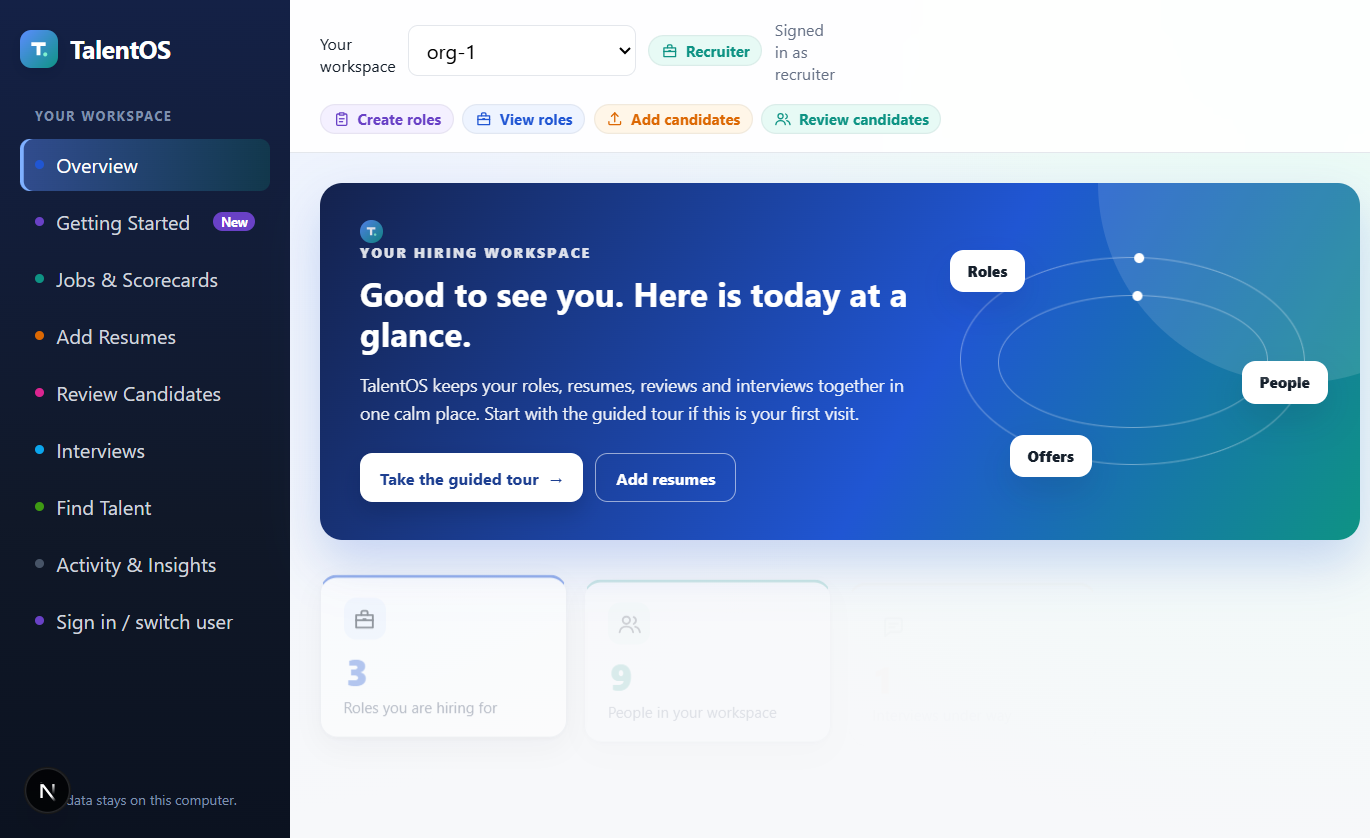
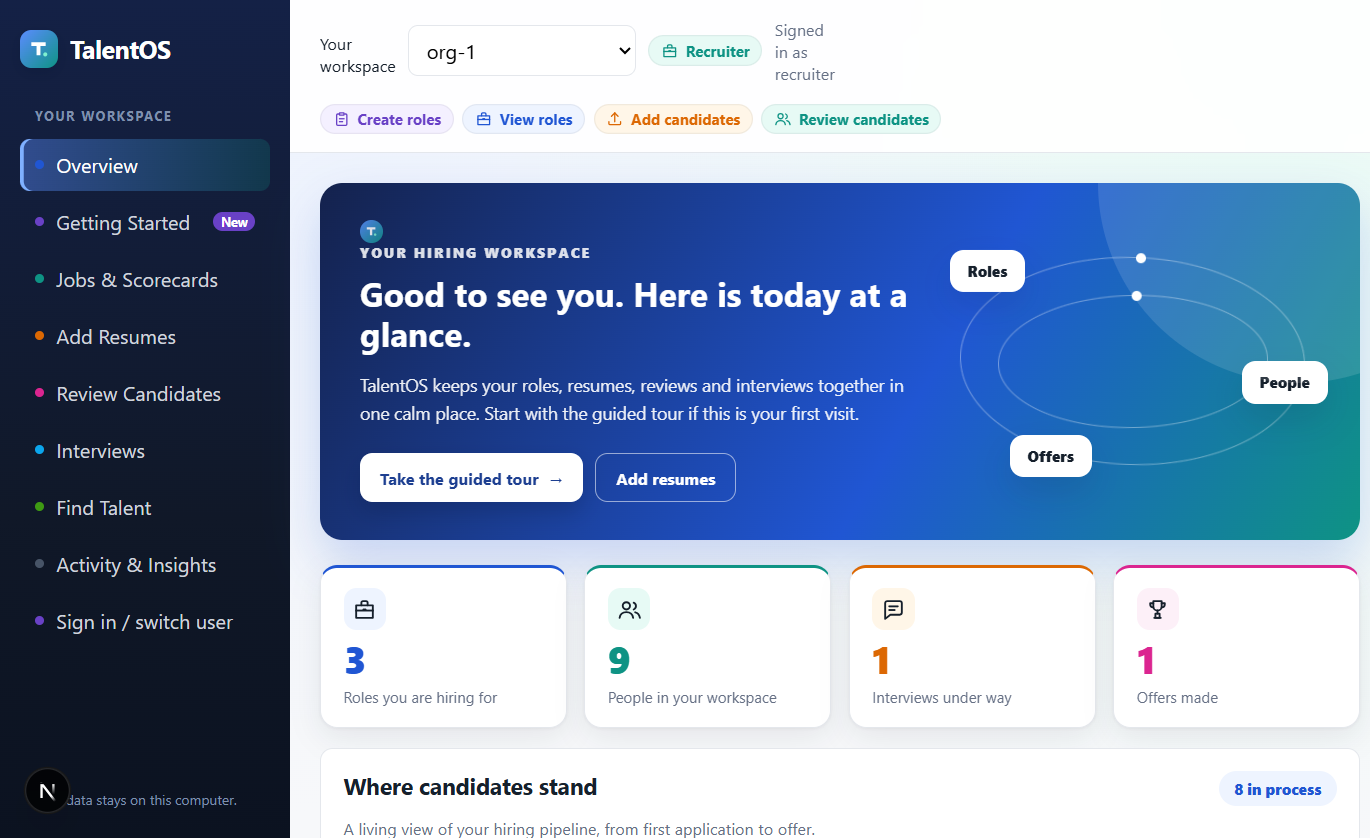
docs: settle screenshots after full data render
Added a 10-second post-load settle window before every screenshot so seeded data, cards and tables finish rendering. Updated the README caption and regenerated the Pillow collage from the new captures.

Verified with 98 passing pytest checks, clean TypeScript and zero browser console errors.

diff --git a/README.md b/README.md
@@ -22,7 +22,7 @@ Real browser captures from the seeded `org-1` demo workspace. No illustration wa
 
 The first screen explains the workspace in HR language, offers a guided tour and shows the live hiring snapshot: roles, people, interviews, offers and candidate stages.
 
-All captures are **viewport-sized loaded-state shots** — the browser waited until every loading label and skeleton disappeared. No full-page dumps, so the sidebar and active content stay clear.
+All captures are **viewport-sized loaded-state shots**. The browser waited until every loading label and skeleton disappeared, then allowed an extra **10-second settle window** for all seeded data to finish rendering. No full-page dumps, so the sidebar and active content stay clear.
 
 ---
 
